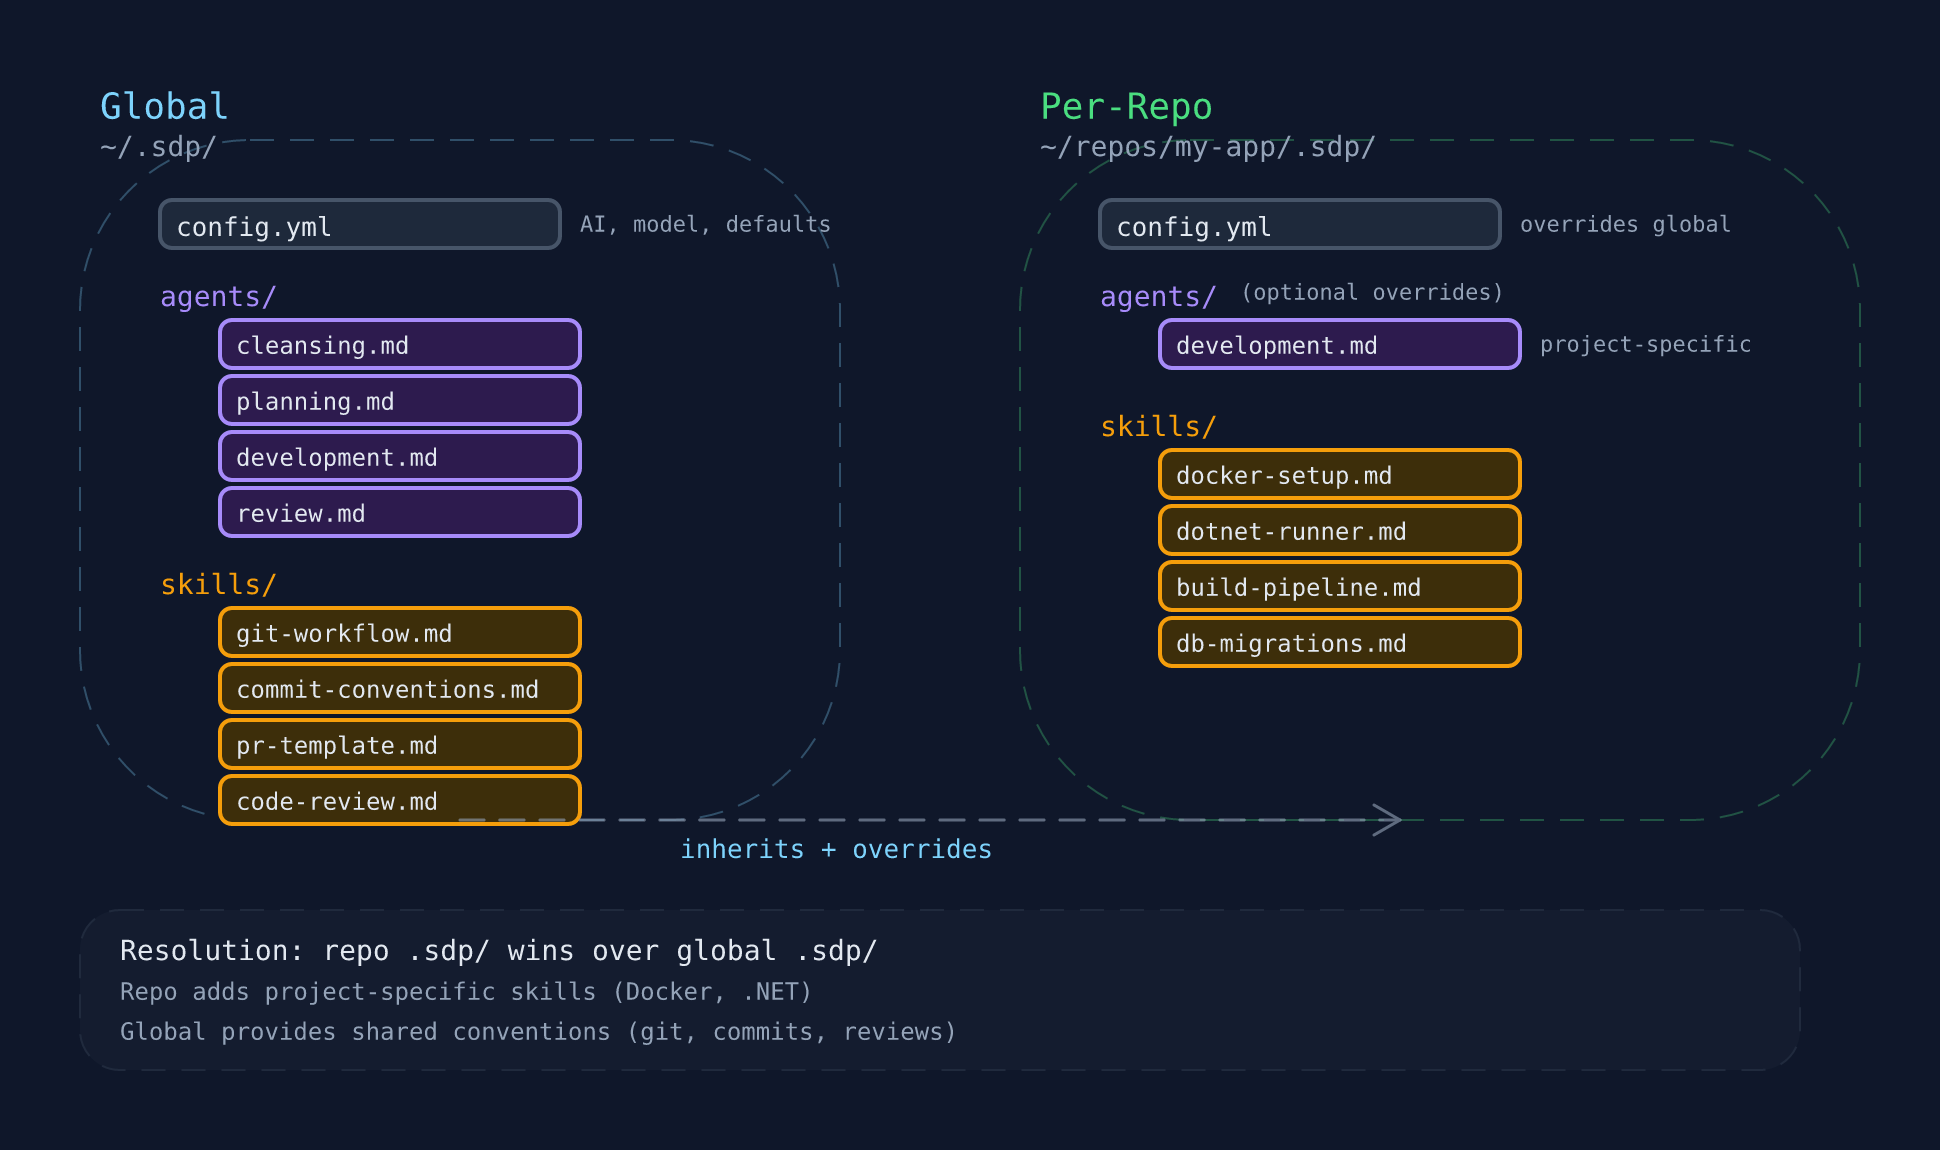
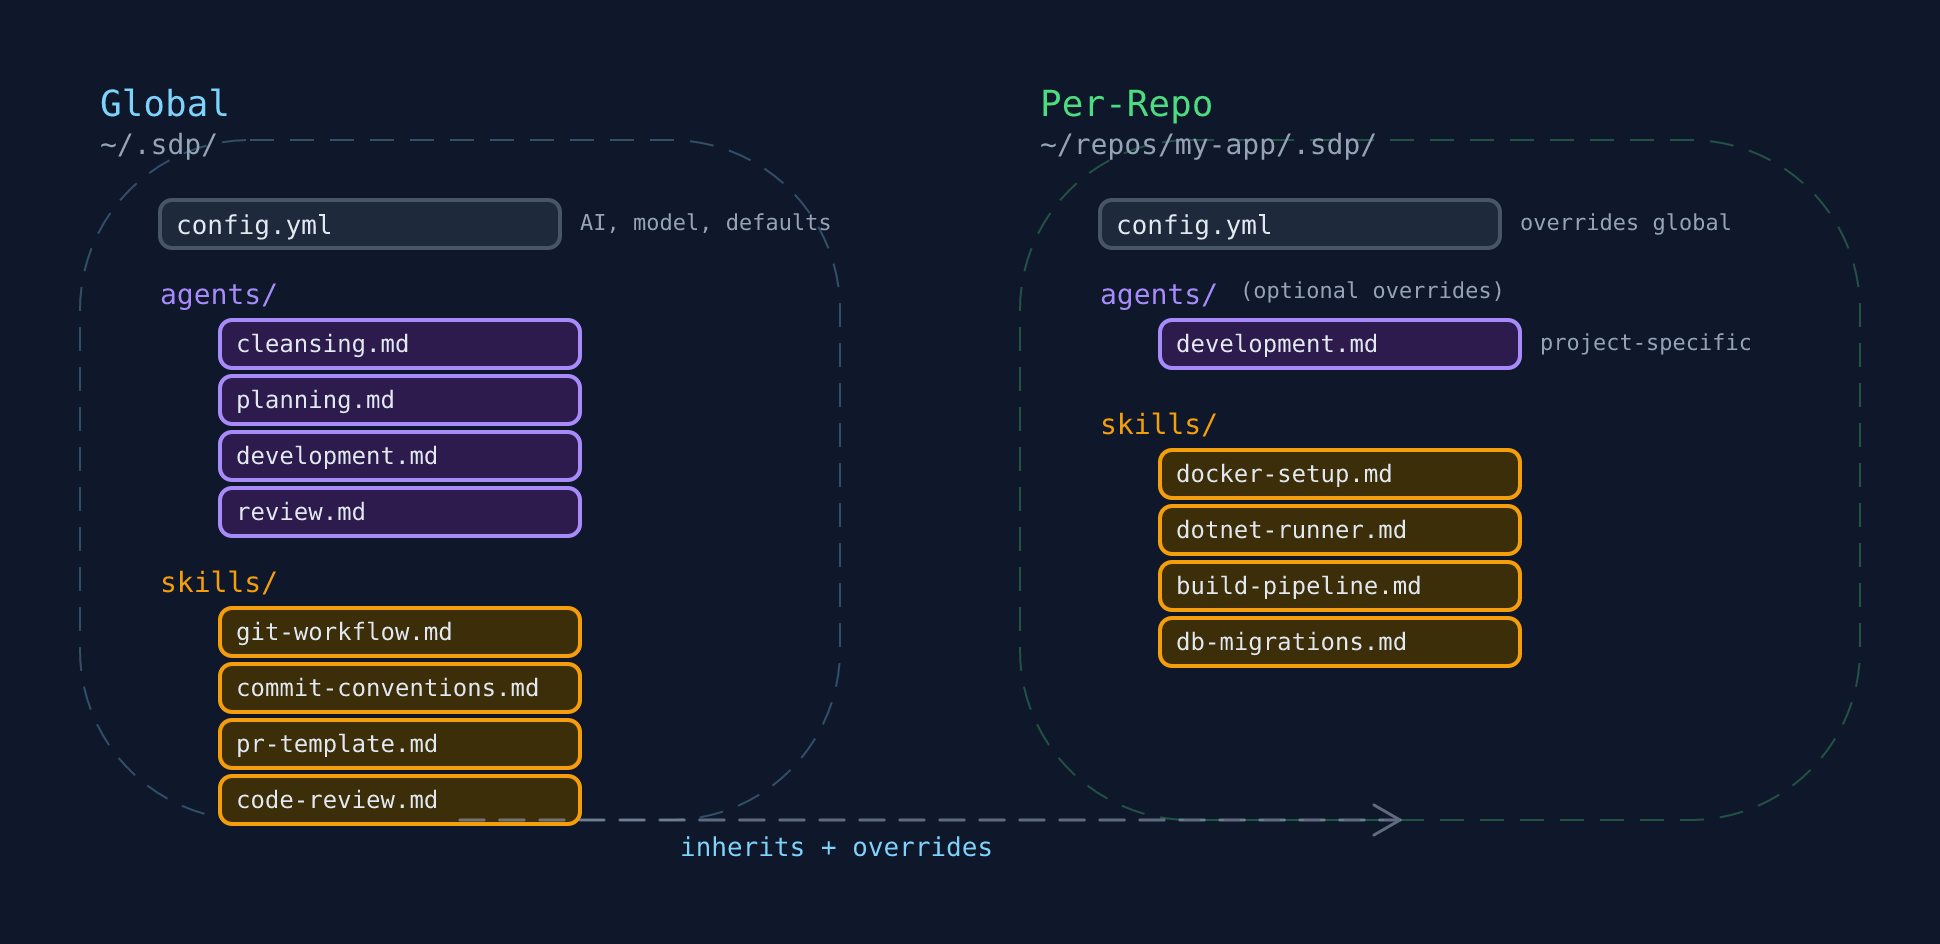
Fix post 3: move series link to bottom, update skill hierarchy and SDP architecture images, fix callout format

diff --git a/_posts/2026-03-13-teaching-ai-how-i-work.md b/_posts/2026-03-13-teaching-ai-how-i-work.md
@@ -8,10 +8,6 @@ author: Shaun Smith
 excerpt: "Everyone's showing AI on greenfield projects. Nobody's showing the messy reality of brownfield. Here's how I formalised my process and taught AI to follow it."
 ---
 
-*Part 3 of [Using AI to Become a 10x Developer](/series/using-ai-to-become-a-10x-developer). Previously: [The Moment AI Clicked For Me](/blog/2026/02/24/moment-ai-clicked/) and [How Do You Measure a 10x Developer?](/blog/2026/02/26/measuring-dev-velocity/)*
-
----
-
 I started where most developers start with AI. One terminal, one AI, and the potential hiding behind that black and white. I was trying different approaches, different tools, seeing how much of the hype I could actually realise. One of the first things I started doing was saving my prompts. As I used them, I'd write them down in markdown files, particularly the ones I noticed using over and over. I'd started using voice typing too (WIN + H), which sped up non-routine requests.
 
 Along the way, I started picking up on quirks. Things I didn't expect. The AI would nail something complex, then butcher something simple. It would confidently rewrite a file I didn't ask it to touch. It would solve a problem three different ways across three attempts, all valid, but fell short in some way. The more I used it, the more I realised the tool wasn't the problem. It was how I was pointing it.
@@ -117,3 +113,7 @@ I've been tracking every story now in realtime since January. Looking at the bro
 And while right now, I might not be a 10x developer.
 
 It's starting to look promising.
+
+---
+
+*This is part of the [Using AI to Become a 10x Developer](/blog/2026/02/24/moment-ai-clicked/) series. Previously: [The Moment AI Clicked For Me](/blog/2026/02/24/moment-ai-clicked/) and [How Do You Measure a 10x Developer?](/blog/2026/02/26/measuring-dev-velocity/)*
